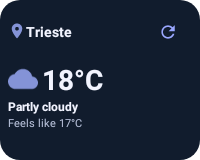
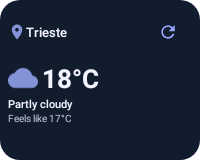
docs: refresh reproducible widget examples

diff --git a/openspec/changes/add-home-screen-weather-widgets/tasks.md b/openspec/changes/add-home-screen-weather-widgets/tasks.md
@@ -41,7 +41,7 @@ High-complexity tasks are limited to interrupted-refresh recovery, concurrent re
 - [x] 5.2 [low] Implement `SmallWeatherWidget` with responsive location/icon/temperature priorities and optional condition/feels-like rows, with no hourly strip; verify production-component renders at minimum, compact, and normal sizes preserve priorities and ellipsize a long location without hiding refresh.
   - Investigation (2026-10-29; user-authorized Terra 6.1 max for 5.2): The recorded API 35 2×2 small host is 368×484 px (about 140×184 dp before host padding); its normal-font screenshot omits the available condition and apparent temperature. Glance/Android responsive selection requires both dimensions to fit, so the existing 160 dp-wide next variant cannot fit this host, leaving the 110×110 composition despite its height. The precise launcher option bundle was not recorded. Reopening 5.2 for provider-size selection and translated host-fit regression coverage; actual launcher reverification remains pending under 6.5.
   - Focused verification (2026-10-29): Added 110×128, 110×160 and 160×160 dp responsive variants. On SDK 34 native graphics at 420 dpi, a real `SmallWeatherWidget` Glance session and Android host select translated provider `RemoteViews` at the recorded host dimensions with modeled 0/8 dp per-edge padding. Before the fix this host exposed only the ellipsized location and 15°C; afterward condition and available feels-like text, icon, 48 dp refresh and ink/bounds fit at 100% and 130%. The test also resizes the same host/RemoteViews through 110×110, 110×128 and 160×160, checks active and host-only font transitions, loading/stale/failure, signed Fahrenheit, dark theme, unavailable apparent temperature and no hourly strip. API 28 component rendering covers the new sizes; Glance's documented pre-Android-12 responsive behavior selects the best fitting variant, but actual API 28 launcher selection remains unverified. The focused Google debug run passed 26/26 across small host/component, sizing, shared content, session and reference-render tests. No new launcher check, full suite or debug assembly was run; tasks 6.3–6.5 remain open.
-  - Reference artifact note: The optional byte comparison against the committed example PNGs failed in this environment, including on the original pre-fix responsive-size list. Fresh before/after renders of all three examples had identical hashes to each other but differed from the committed PNGs; the reason for that existing mismatch is unproven. No example PNG was changed. The 26-test focused run checked reference rendering without the optional output-directory byte comparison.
+  - Reference artifact note: The optional byte comparison against the committed example PNGs failed in this environment, including on the original pre-fix responsive-size list. Fresh before/after renders of all three examples had identical hashes to each other but differed from the committed PNGs; the cause was unproven at that time. No example PNG was changed under 5.2. The 26-test focused run checked reference rendering without the optional output-directory byte comparison; the later 6.1 investigation below isolates the mismatch.
 - [x] 5.3 [low] Implement `MediumWeatherWidget` with the current block near one third width, conditional update timestamp, vertical rules, and three-to-five hourly columns with accented droplet/probability values; verify production-component renders cover all column branches, missing probabilities, no future hours, and no horizontal overflow.
   - Validation note (2026-10-29): Corrected the compact medium branch to 260×110 dp, retaining the 48 dp refresh target and hourly time/icon/temperature/probability rows in translated production RemoteViews. `MediumWeatherWidgetTest`, `WeatherWidgetSizePolicyTest`, `SmallWeatherWidgetTest`, `WeatherWidgetContentTest`, and `WeatherWidgetReferenceExamplesTest` passed; all three existing example PNGs matched byte-for-byte. Launcher resizing at 110 dp was not run: no ADB device was available, and provider metadata remains outside this task pending its separate correction/runtime verification.
   - Font-fit follow-up (2026-10-29): The API 35 Pixel 2 capture exposed probability text ink below its translated `TextView` at 130% font scale. Medium sizing now uses the Android one-line `TextView` layout (including font padding) rather than only an estimated line-height multiplier; compact-height hourly icon/time/temperature sizing leaves room for readable probability text. Added translated production-RemoteViews coverage at 100% and 130% across 260×110, 293×184, 320×144, and 400×160 dp, with signed/extreme Fahrenheit values and missing/zero/5/100% probabilities; it checks line bottoms, baseline/font metrics, glyph ink, view/card bounds, and overlaps. `MediumWeatherWidgetTest` and `WeatherWidgetSizePolicyTest` passed, as did `WeatherWidgetReferenceExamplesTest` with all committed examples unchanged. The historical device capture remains a failure observation; API 35 runtime re-verification is pending under 6.5 and is not claimed as passed.
@@ -57,6 +57,7 @@ High-complexity tasks are limited to interrupted-refresh recovery, concurrent re
 ## 6. Reference fixtures and cross-feature verification
 
 - [x] 6.1 [low] Add deterministic production-rendered examples for light Zaječar 23/24, dark partly-cloudy Trieste 18/17, and medium Zaječar with reference hours 22:00–02:00, temperatures 20/18/17/16/15, and probabilities 0/0/10/20/60; verify generated previews or test-rendered artifacts use shared labels/icons and require no live services.
+  - Reopened and verified (2026-10-29; user-authorized Terra 6.1 max for 6.1): Two independent Google debug test invocations rendered all three production `RemoteViews` examples into new empty directories with byte-identical results. Inspected the images; the test asserts shared labels and day/night icons, the reference weather and five hourly columns, and zero live weather requests. Controlled renders with the unchanged fixture/dependencies at `b8d1126` and `eefc396` reproduced the old and new PNGs respectively, isolating the mismatch to the host-adaptive native-text change rather than 5.2; cross-environment equality was not tested. Regenerated only the three tracked example PNGs, then the exact README opt-in comparison passed against them with its byte assertions unchanged. All five focused invocations passed (one test each: two current renders, two historical renders, and the documented comparison). No full suite, debug APK assembly or launcher runtime check was run; 6.3–6.5 remain open.
 - [x] 6.2 [low] Add edge-case render coverage for long names, missing data, signed/extreme temperatures, both units/themes, constrained dimensions, larger font scaling, cached offline states, and failed refresh; verify the focused widget test package passes and its size branches never overlap or clip primary content.
 - [ ] 6.3 [low] Run cross-feature regression tests after integrating widgets, including repository/cache, passive location, app startup, existing weather UI, and notification workers; verify `ANDROID_HOME=/home/homoludens/Android/Sdk ANDROID_SDK_ROOT=/home/homoludens/Android/Sdk ./gradlew :app:testGoogleDebugUnitTest` passes, reporting any unrelated pre-existing failure separately.
   - Pending (2026-10-29): The prior full-suite pass predates the reopened 5.2 small responsive-size change; rerun the unfiltered Google debug suite on the updated source.

diff --git a/docs/widgets/launcher-qa.md b/docs/widgets/launcher-qa.md
@@ -45,7 +45,7 @@ Runtime checks are recorded separately below; “not run” means no device-leve
 
 **Pending after task 5.2 responsive-size correction (2026-10-29):** The historical `fd6a3ff7…` normal 2×2 small host was [368×484 px](launcher/api35-final-evidence.txt) (about 140×184 dp at 420 dpi, before host padding). Its [100% screenshot](launcher/api35-terra-cached100-normal.png) shows an ellipsized location, icon and 15°C, but omits the available Cloudy and feels-like 13°C rows even though there is unused height; the neighboring medium card shows them. The launcher option bundle was not recorded. Glance 1.2 and Android select a responsive variant only when both dimensions fit: the previous 160×128 dp variant was too wide, leaving 110×110. The small provider now also supplies 110×128, 110×160 and 160×160 variants. SDK 34 native-graphics tests of the actual provider/session and Android host passed for the recorded dimensions with modeled 0/8 dp padding, resize, 100%/130% font handling, status, signed Fahrenheit and long-name cases; API 28 component renders also passed. These are automated results, **not an API 35 or API 28 launcher pass for the updated source**. Rebuild and repeat actual launcher checks, including captured host/options, normal/compact rows, status, larger fonts and cached-process transitions. Full Google debug suite, debug assembly and launcher recheck are pending in tasks 6.3–6.5.
 
-The three committed example PNGs were not changed. An opt-in byte comparison against those files failed in this environment on both the original and updated responsive-size lists; freshly generated before/after renders match each other byte-for-byte for all three examples. The reason the committed bytes differ is unproven. The focused reference-render test passed without that optional comparison.
+**Reference-artifact investigation (2026-10-29):** The earlier opt-in byte comparison failed against the old committed PNGs, while fresh before/after 5.2 renders matched. Using the same SDK 28 native-graphics test, test fixture and dependencies on this machine, a clean render at `b8d1126` (`eefc396`'s parent) reproduced all three old PNGs byte-for-byte; a clean render at `eefc396` reproduced all three current-source PNGs byte-for-byte. That isolates the observed difference to the approved host-adaptive native-text change in `eefc396`, not the later 5.2 responsive-size change or a same-environment variation. Two additional, independent current-source test invocations also produced identical bytes for all three files; the reviewed PNGs were regenerated from that output, and the exact documented byte-comparison command passed against them. The fixture checks the shared labels and icons, five hourly values/probabilities, and zero live weather requests. Cross-environment byte equality was not tested; see the [example README](examples/README.md). These automated renders are not launcher screenshots or device verification.
 
 | Runtime target | Result |
 | --- | --- |

diff --git a/docs/widgets/examples/README.md b/docs/widgets/examples/README.md
@@ -1,6 +1,6 @@
 # Widget reference previews
 
-These PNGs are offline Robolectric renders of the widgets' production Glance layouts. The test starts with normalized `WeatherForecast` fixtures, loads them through the cache-only `WeatherWidgetRepository` path with a fixed clock, translates the production small/medium Glance content to Android `RemoteViews`, and captures the rendered views. It does not use a Compose mockup, live service, network, or credentials. Assertions check the shared condition labels and exact shared weather-icon vectors/tints, including night icons in the dark Trieste card and all five night-hour icons in the medium card while its current clear-weather icon stays in daytime mode.
+These PNGs are offline Robolectric renders of the widgets' production Glance layouts, **not device screenshots**. The test starts with normalized `WeatherForecast` fixtures, loads them through the cache-only `WeatherWidgetRepository` path with a fixed clock, translates the production small/medium Glance content to Android `RemoteViews`, and captures the rendered views. It does not use a Compose mockup, live service, network, or credentials. Assertions check the shared condition labels and exact shared weather-icon vectors/tints, including night icons in the dark Trieste card and all five night-hour icons in the medium card while its current clear-weather icon stays in daytime mode. The examples reflect the host-adaptive native text introduced in `eefc396`.
 
 | Preview | Contents |
 | --- | --- |
@@ -19,4 +19,6 @@ ANDROID_SDK_ROOT=/home/homoludens/Android/Sdk \
   --rerun-tasks
 ```
 
-The renderer creates only the three named PNGs when they are absent; if an artifact already exists, the test checks that its bytes match the deterministic render rather than overwriting it.
+The renderer creates only the three named PNGs when they are absent; if an artifact already exists, the test checks that its bytes match the render rather than overwriting it. The test uses Robolectric 4.16.1 with SDK 28 native graphics and the project's Java 21 toolchain. Intentional production layout or text changes can change the images, and native graphics or toolchain differences may also affect bytes; investigate a mismatch rather than treating it as a pass.
+
+To review an intentional update, point `WEATHER_WIDGET_EXAMPLES_DIR` at a new empty directory instead, render in independent runs, compare the resulting bytes, and inspect the three images and fixture assertions. Only then replace the three tracked examples and rerun the command above against the checked-in directory. Never remove the byte assertion to accept a mismatch.
